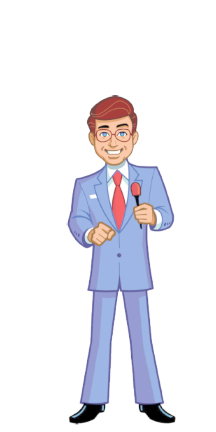
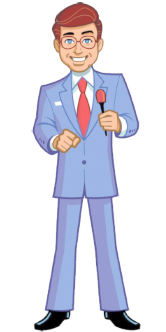
added monty image to prelim 4

diff --git a/doorgame/templates/prelim_four.html b/doorgame/templates/prelim_four.html
@@ -3,7 +3,8 @@
 {% block title %}Door Game{% endblock %}
 
 {% block content %}
-
+{% load static %}
+<div id="full_width_text">
 <h2>Well done</h2>
 
 <p>Now play the memory task with the Monty Hall Game.  In this study, you will play Monthy Hall Game consecutively {{ display_trial_limit }} times.</p>
@@ -13,9 +14,14 @@
 	
 <p>First, Monty will ask you to pick a door.  Then he will open one of the other two doors, that you did not pick, to reveal one of the goats</p>
 <p>Then, Monty will ask you to make a final choice between the remaining doors.  You can stick with your initial door or switch to the other one.</p>
+
+</div>
+
+<div id="text_with_image">
+	<div class="row">
+		<div class="col-sm-8">
+
 <p>You will win whatever is behind the door you finally select.</p>
-
-
 
 <p>The aim is winning the car.</p>
 	
@@ -30,6 +36,14 @@
 	<li>Monty always offers switch/stick options to the guests.</li>
 	
 </ul>
+</div>
+	<div class="col-sm-3">
+		<div id="monty_picture">
+			<img src="{% static 'doorgame/single_monty.jpg' %}" alt="Monty_image">
+		</div>
+	</div>
+</div>
+</div>
 {% load static %}
 
 {% if user.is_authenticated %}
